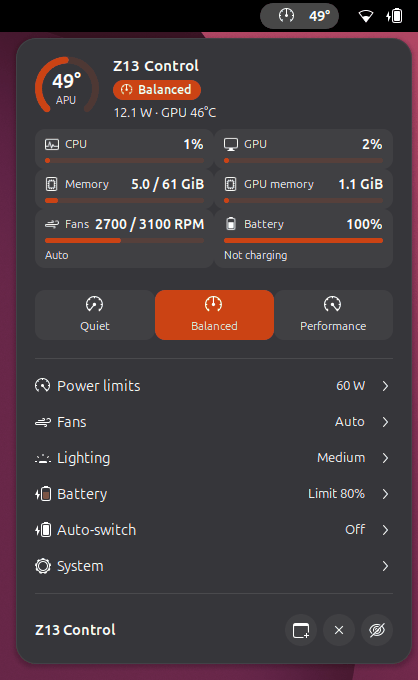
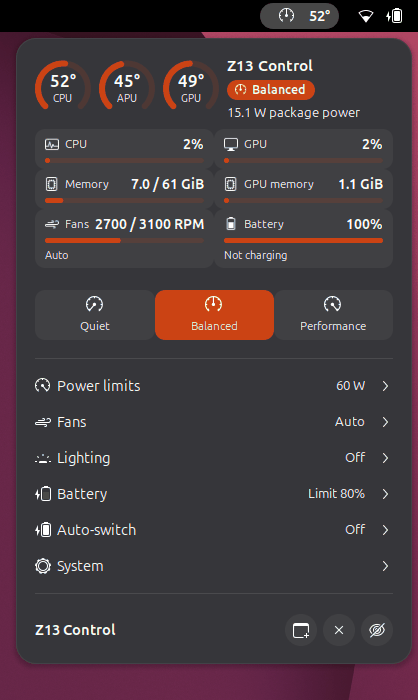
Update for 0.1.1

diff --git a/README.md b/README.md
@@ -89,9 +89,10 @@ drawn in orange: your points are raised to it, never lowered.
 ![Lighting](docs/screenshots/04-lighting.png)
 
 Keyboard and lightbar, together or separately: static, breathe, colour cycle,
-rainbow or strobe, with colour, speed and brightness, and a live preview. Lights
-can switch off by themselves on battery, after a period of inactivity, or while
-the keyboard is detached, and your colours come back when the condition clears.
+rainbow or strobe, with colour, speed and brightness, and a live preview. Each
+zone can switch itself off on battery, after a period of inactivity, or while
+the keyboard is detached, with its own rules for the keyboard and the lightbar,
+and your colours come back when the condition clears.
 
 ### System
 
@@ -167,6 +168,7 @@ after resume.
   boost, kept in force even when the desktop rewrites them.
 * NPU power and load on the Overview.
 * Uninstall from inside the app (System → Remove), with one password prompt.
+* Automatic switch-off rules are separate for the keyboard and the lightbar.
 * The app has the same look: an APU gauge and profile switch at the top of
   the Overview, gauge tiles everywhere, the three power limits drawn against
   the kernel's range, live fan tiles and a battery gauge, plus a status block
